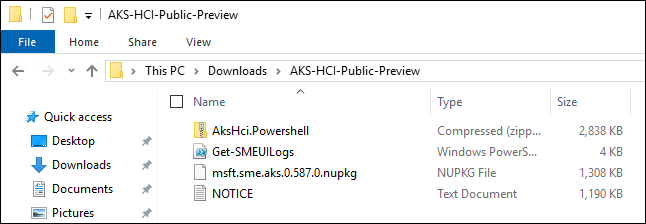
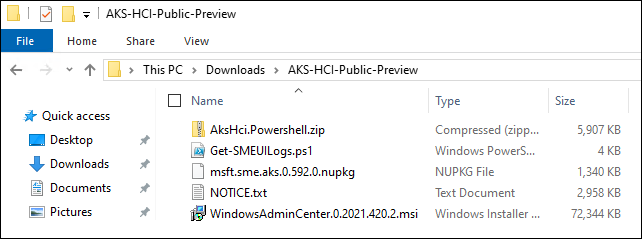
Updated WAC steps

diff --git a/eval/steps/2a_DeployAKSHCI_WAC.md b/eval/steps/2a_DeployAKSHCI_WAC.md
@@ -12,6 +12,7 @@ Contents
 - [Set Microsoft Edge as default browser](#set-microsoft-edge-as-default-browser)
 - [Allow popups in Edge browser](#allow-popups-in-edge-browser)
 - [Download artifacts](#download-artifacts)
+- [Update Windows Admin Center](#update-windows-admin-center)
 - [Configure Windows Admin Center](#configure-windows-admin-center)
 - [Finalize Azure integration](#finalize-azure-integration)
 - [Optional - Enable/Disable DHCP](#optional---enabledisable-dhcp)
@@ -78,41 +79,52 @@ In order to deploy AKS on Azure Stack HCI, you'll need to register, and then dow
 
 ![Folder containing key AKS-HCI files](/eval/media/akshci_wac_folders.png "Folder containing key AKS-HCI files")
 
-In this folder, you'll find a number of important files. You'll see a zip file containing the PowerShell modules, a text file, a PowerShell Script file, along with a **Windows Admin Center extension**, which you'll use later.
+In this folder, you'll find a number of important files. You'll see a zip file containing the PowerShell modules, a text file, a PowerShell Script file, an updated Windows Admin Center MSI file, along with a **Windows Admin Center extension**, which you'll use later.
+
+Update Windows Admin Center
+-----------
+Your Azure VM deployment automatically installed Windows Admin Center 2103, which is the public build currently available.
+
+*******************************************************************************************************
+
+**IMPORTANT** - For the April release of AKS on Azure Stack HCI, an **updated version of Windows Admin Center is required**. This updated build can be found within the extracted zip file.  To update the installed version of Windows Admin Center, follow these steps:
+
+1. Navigate to your **Downloads folder**, then into the **previously-extracted AKS-HCI Public Preview folder**
+2. **Double-click** the Windows Admin Center MSI file to start the update process
+3. Follow the installation wizard, leaving the **default selections** to complete the upgrade of Windows Admin Center
+
+*******************************************************************************************************
 
 Configure Windows Admin Center
 -----------
-The Azure VM deployment has already deployed Windows Admin Center, and updated all the extensions that are pre-installed, however there are some additional configuration steps that must be performed before you can use it to deploy AKS on Azure Stack HCI.
+With Windows Admin Center installed and updated, there are some additional configuration steps that must be performed before you can use it to deploy AKS on Azure Stack HCI.
 
 1. **Double-click the Windows Admin Center** shortcut on the desktop.
 2. Once Windows Admin Center is open, you may receive notifications in the top-right corner, indicating that some extensions are updating automatically. **Let these finish updating before proceeding**. Windows Admin Center may refresh automatically during this process. Once complete, **minimize Windows Admin Center**.
-
-![Windows Admin Center extensions available](/eval/media/extension_update.png "Windows Admin Center extensions available")
-
-5. Open **File Explorer** and navigate to **C:\\**. Right-click and select **New**, **Folder** and enter **"Feed"** as the new name for the folder.
-6. Navigate to your **Downloads folder**, then into the **previously-extracted AKS-HCI Public Preview folder**
-7. Select the **NUPKG file**, right-click and select **copy**, then navigate to **C:\Feed** and paste into this folder.
-8. With the NUPKG file in your C:\Feed folder, maximize Windows Admin Center.  Navigate to **Settings**, then **Extensions**, and finally, click on **Feeds**
-9.  On the Feeds page, click **Add**. In the **"Add package source"** blade, enter **"C:\Feed"** (without the quotes) and click **Add** in the bottom-right corner.
+3. Open **File Explorer** and navigate to **C:\\**. Right-click and select **New**, **Folder** and enter **"Feed"** as the new name for the folder.
+4. Navigate to your **Downloads folder**, then into the **previously-extracted AKS-HCI Public Preview folder**
+5. Select the **NUPKG file**, right-click and select **copy**, then navigate to **C:\Feed** and paste into this folder.
+6. With the NUPKG file in your C:\Feed folder, maximize Windows Admin Center.  Navigate to **Settings**, then **Extensions**, and finally, click on **Feeds**
+7.  On the Feeds page, click **Add**. In the **"Add package source"** blade, enter **"C:\Feed"** (without the quotes) and click **Add** in the bottom-right corner.
 
 ![Adding an extension feed in Windows Admin Center](/eval/media/add_feed.png "Adding an extension feed in Windows Admin Center")
 
-10. Click on **Available extensions** and you should now see **Azure Kubernetes Service** listed as available
+8. Click on **Available extensions** and you should now see **Azure Kubernetes Service** listed as available
 
 ![Available extensions in Windows Admin Center](/eval/media/available_extensions.png "Available extensions in Windows Admin Center")
 
-11. To install the extension, simply click on it, and click **Install** and then **OK**. Within a few moments, this will be completed. You can double-check by navigating to **Installed extensions**, where you should see Azure Kubernetes Service listed as **Installed**
+9. To install the extension, simply click on it, and click **Install** and then **OK**. Within a few moments, this will be completed. You can double-check by navigating to **Installed extensions**, where you should see Azure Kubernetes Service listed as **Installed**
 
 With your extensions correctly deployed, in order to deploy AKS-HCI with Windows Admin Center, you need to connect your Windows Admin Center instance to Azure.
 
-12. Click on **Settings** then under **Gateway** click on **Azure**.
-13. Click **Register**, and in the **Get started with Azure in Windows Admin Center** blade, follow the instructions to **Copy the code** and then click on the link to configure device login.
-14. When prompted for credentials, **enter your Azure credentials** for a tenant you'd like to use to register the Windows Admin Center
-15. Back in Windows Admin Center, you'll notice your tenant information has been added.  You can now click **Connect** to connect Windows Admin Center to Azure
+10. Click on **Settings** then under **Gateway** click on **Azure**.
+11.  Click **Register**, and in the **Get started with Azure in Windows Admin Center** blade, follow the instructions to **Copy the code** and then click on the link to configure device login.
+12.  When prompted for credentials, **enter your Azure credentials** for a tenant you'd like to use to register the Windows Admin Center
+13.  Back in Windows Admin Center, you'll notice your tenant information has been added.  You can now click **Connect** to connect Windows Admin Center to Azure
 
 ![Connecting Windows Admin Center to Azure](/eval/media/wac_azure_connect.png "Connecting Windows Admin Center to Azure")
 
-17. Click on **Sign in** and when prompted for credentials, **enter your Azure credentials** and you should see a popup that asks for you to accept the permissions, so click **Accept**
+14. Click on **Sign in** and when prompted for credentials, **enter your Azure credentials** and you should see a popup that asks for you to accept the permissions, so click **Accept**
 
 ![Permissions for Windows Admin Center](/eval/media/wac_azure_permissions.png "Permissions for Windows Admin Center")
 
